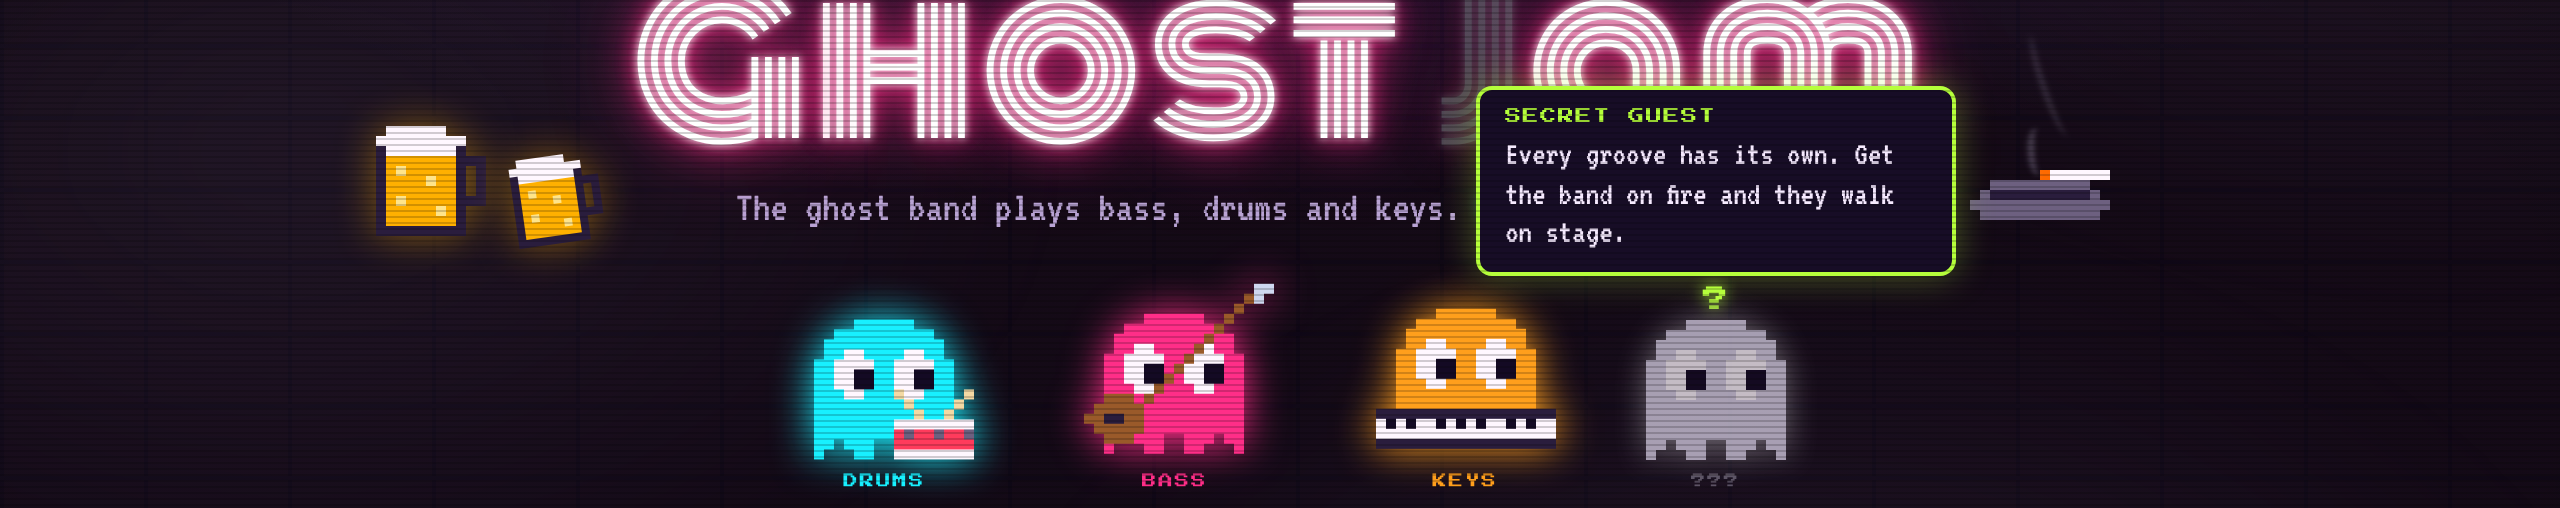
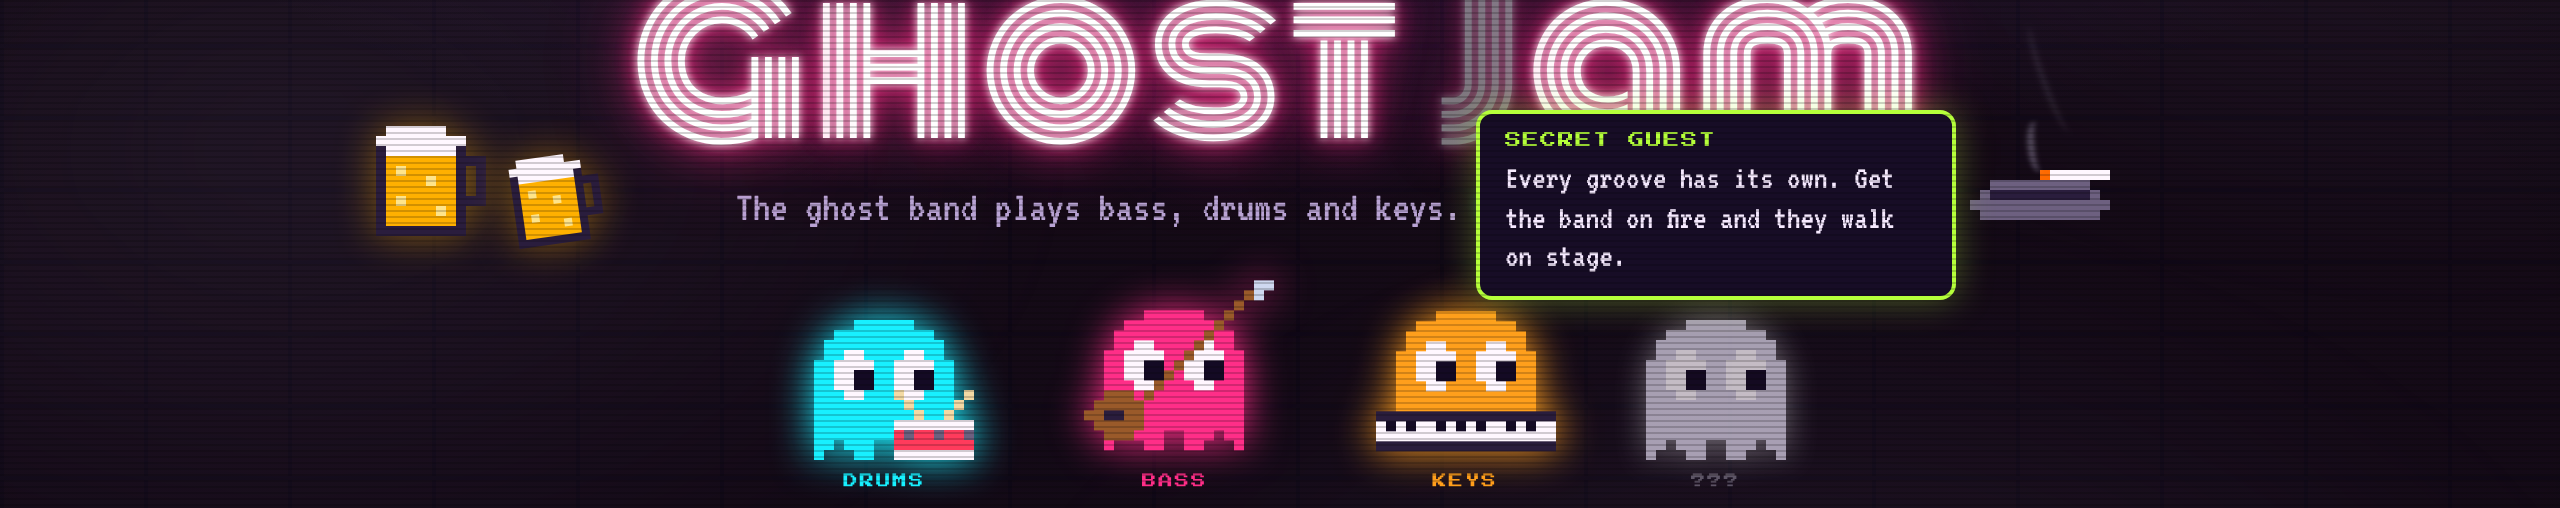
Ghost Jam: no ? over the secret guest, the ghost itself opens the teaser
Claude-Session: https://claude.ai/code/session_01CbgJPvH5Uj79DTWXv8xgAA

diff --git a/jam/jam.css b/jam/jam.css
@@ -256,7 +256,7 @@ input[type="range"] { accent-color: var(--pink); width: 100%; }
 .ghost-lime { color: var(--lime); }
 .ghost-lime .sprite { filter: drop-shadow(0 0 10px var(--lime)); }
 /* The secret guest on the setup page: a pale, flickering ghost with a
-   "?" over its head and a teaser on hover (desktop) or tap (phone). */
+   teaser on hover (desktop) or tap (phone). */
 .ghost.is-secret {
   position: relative; color: #d9d0e6; cursor: help;
   background: none; border: 0; padding: 0; font: inherit;
@@ -265,14 +265,8 @@ input[type="range"] { accent-color: var(--pink); width: 100%; }
 .ghost.is-secret > .sprite { filter: drop-shadow(0 0 8px rgba(255, 255, 255, 0.5)); }
 .ghost.is-secret:hover > .sprite, .ghost.is-secret.open > .sprite,
 .ghost.is-secret:focus-visible > .sprite { opacity: 0.75; animation: float 2.4s ease-in-out infinite; }
-.secret-mark {
-  position: absolute; top: -18px; left: 50%; translate: -50% 0;
-  font-family: var(--font-display); font-size: 0.8rem; color: var(--lime);
-  text-shadow: 0 0 8px var(--lime); animation: secretBlink 1.6s ease-in-out infinite;
-}
-@keyframes secretBlink { 50% { opacity: 0.25; transform: translateY(-3px); } }
 .secret-tip {
-  position: absolute; z-index: 20; bottom: calc(100% + 22px); left: 50%; translate: -50% 0;
+  position: absolute; z-index: 20; bottom: calc(100% + 10px); left: 50%; translate: -50% 0;
   width: max-content; max-width: min(240px, 80vw); padding: 0.6rem 0.8rem;
   background: var(--paper); border: 2px solid var(--lime); border-radius: 8px;
   box-shadow: 0 0 18px rgba(182, 255, 59, 0.35);

diff --git a/jam/js/main.js b/jam/js/main.js
@@ -167,7 +167,7 @@ const ghostHtml = (m, style) => `<div class="ghost ghost-${m.color}" data-part="
 // since who sits in depends on the groove. Hover (or tap) for a teaser.
 $('bandIntro').innerHTML = BAND.slice(0, 3).map((m) => ghostHtml(m, settings.style)).join('')
   + `<button type="button" class="ghost is-secret" data-part="guest" aria-expanded="false" aria-describedby="secretTip">
-      <span class="secret-mark" aria-hidden="true">?</span>${sprite('ghost', { px: 5 })}<span class="ghost-name">???</span>
+      ${sprite('ghost', { px: 5 })}<span class="ghost-name">???</span>
       <span class="secret-tip" id="secretTip" role="tooltip"><b>Secret guest</b>Every groove has its own. Get the band on fire and they walk on stage.</span>
     </button>`;
 const secret = $('bandIntro').querySelector('.is-secret');
